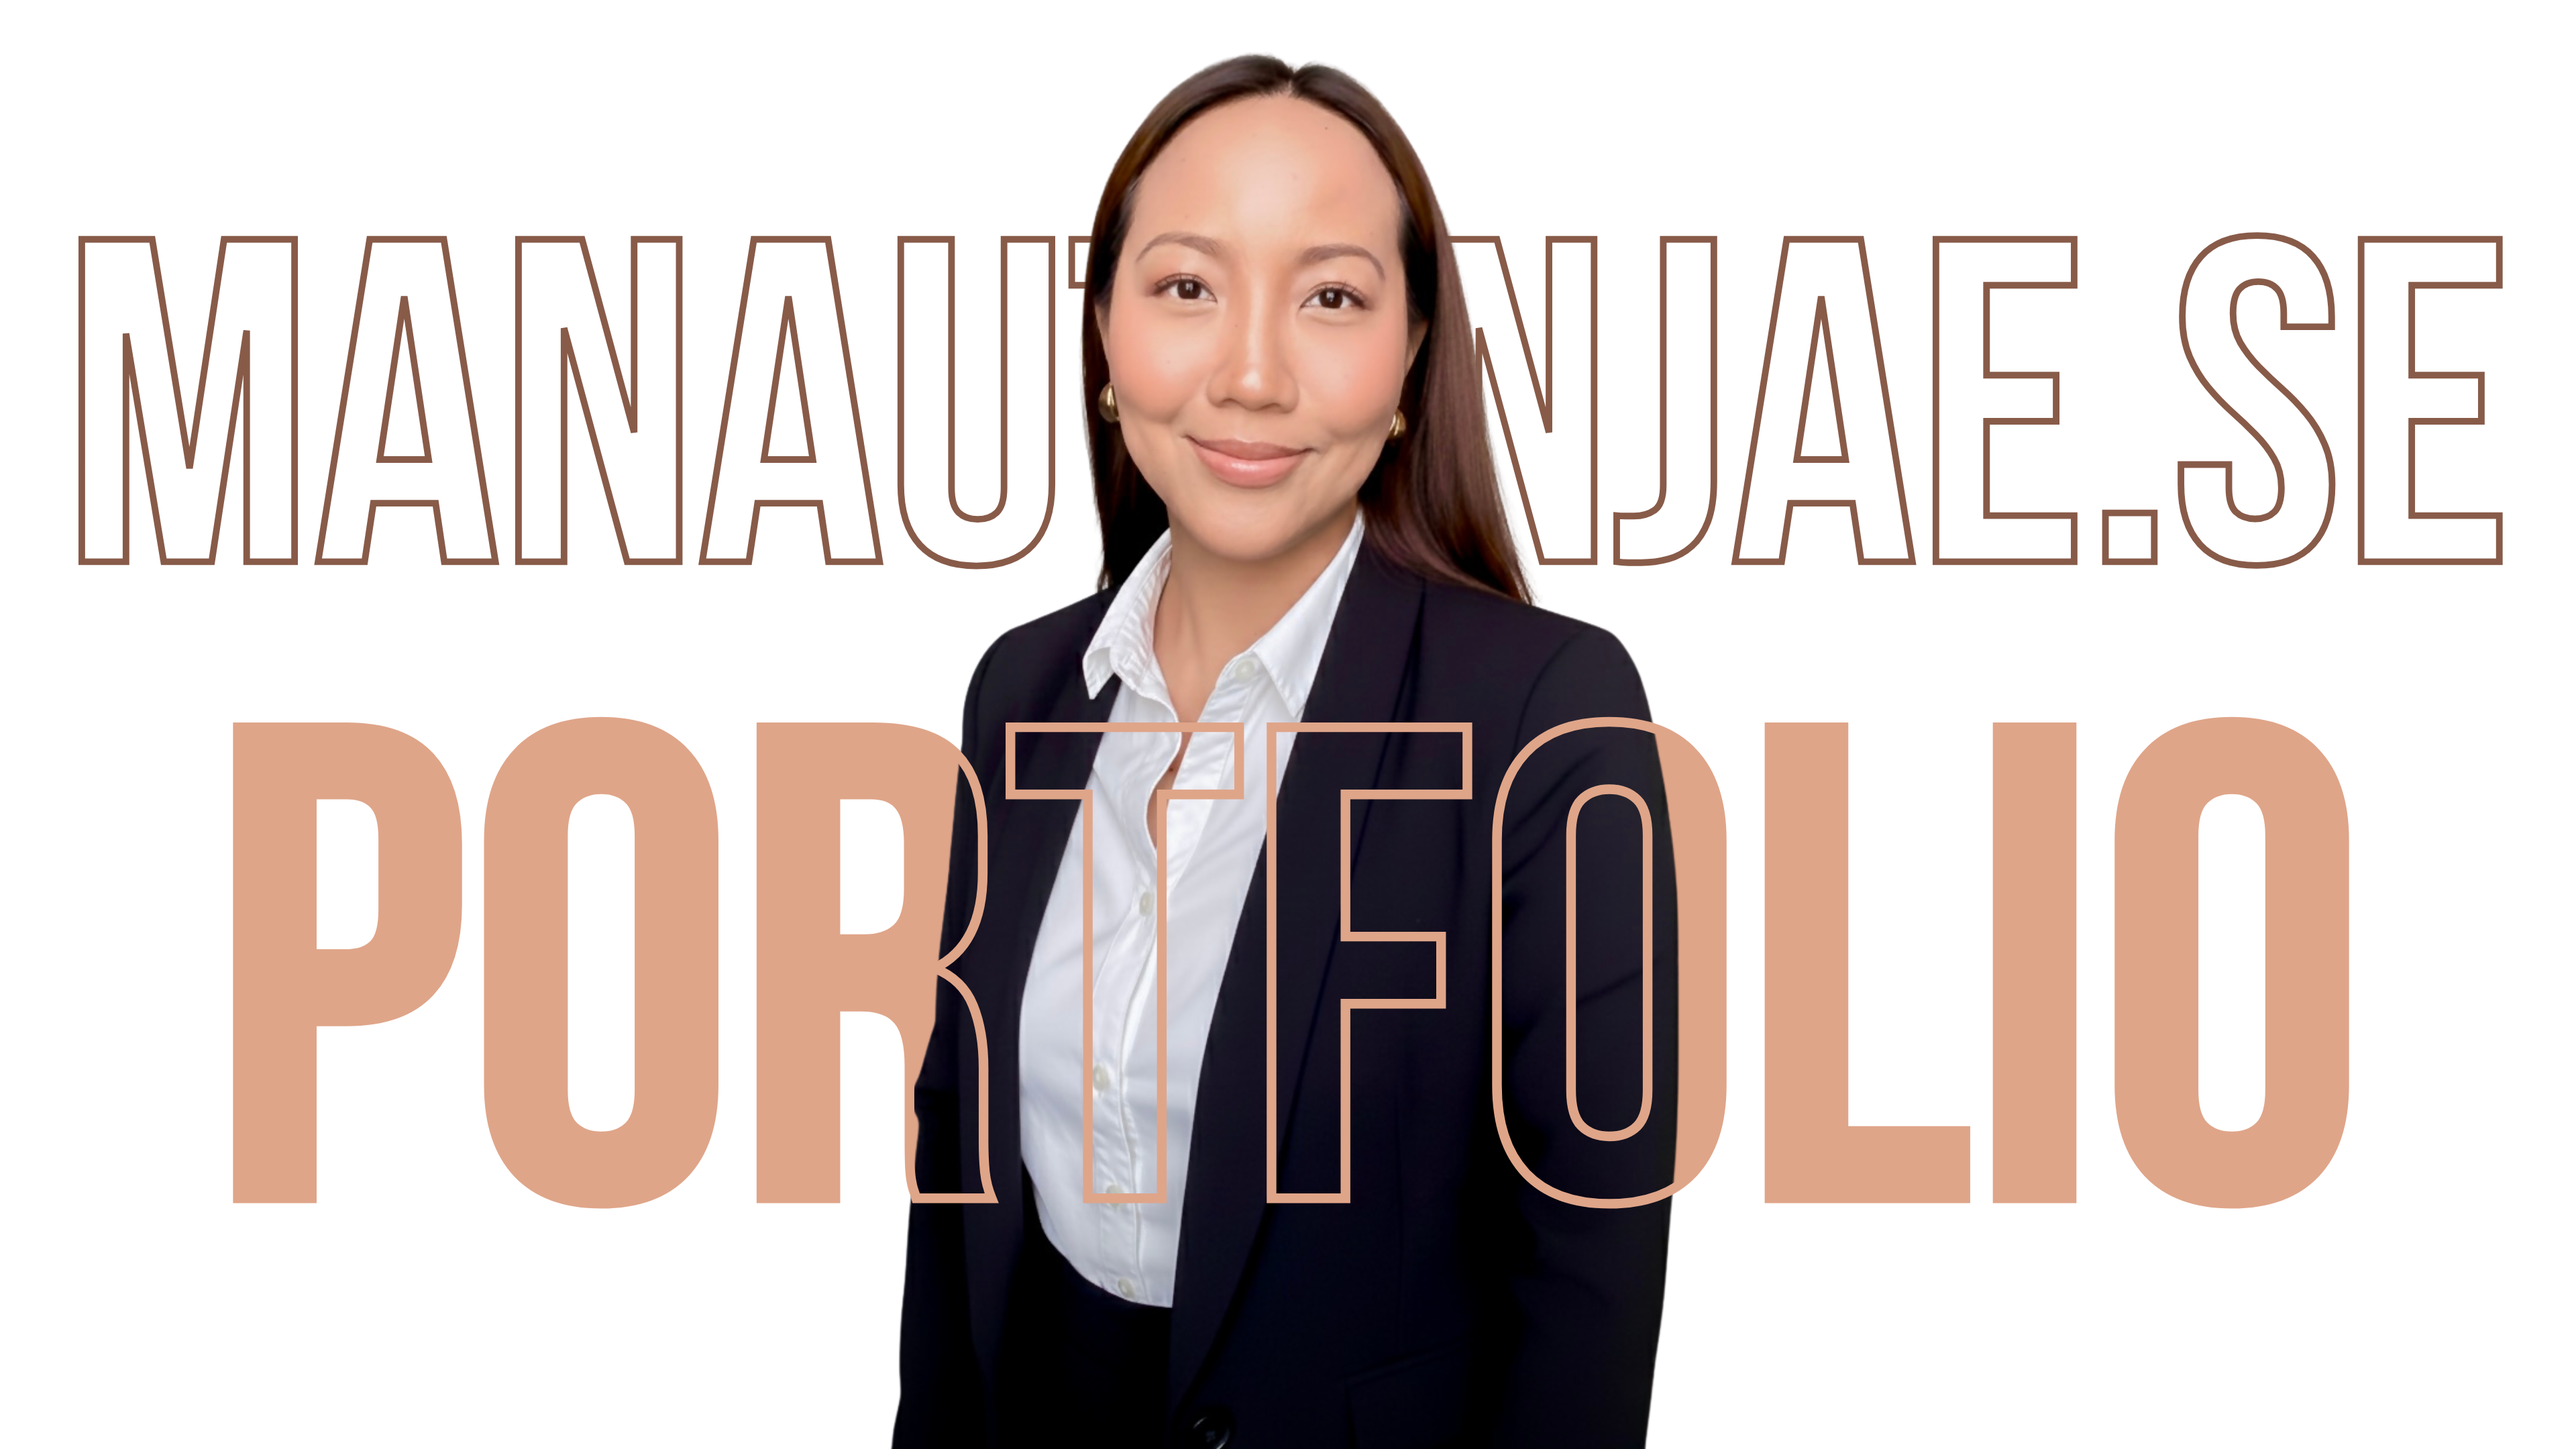
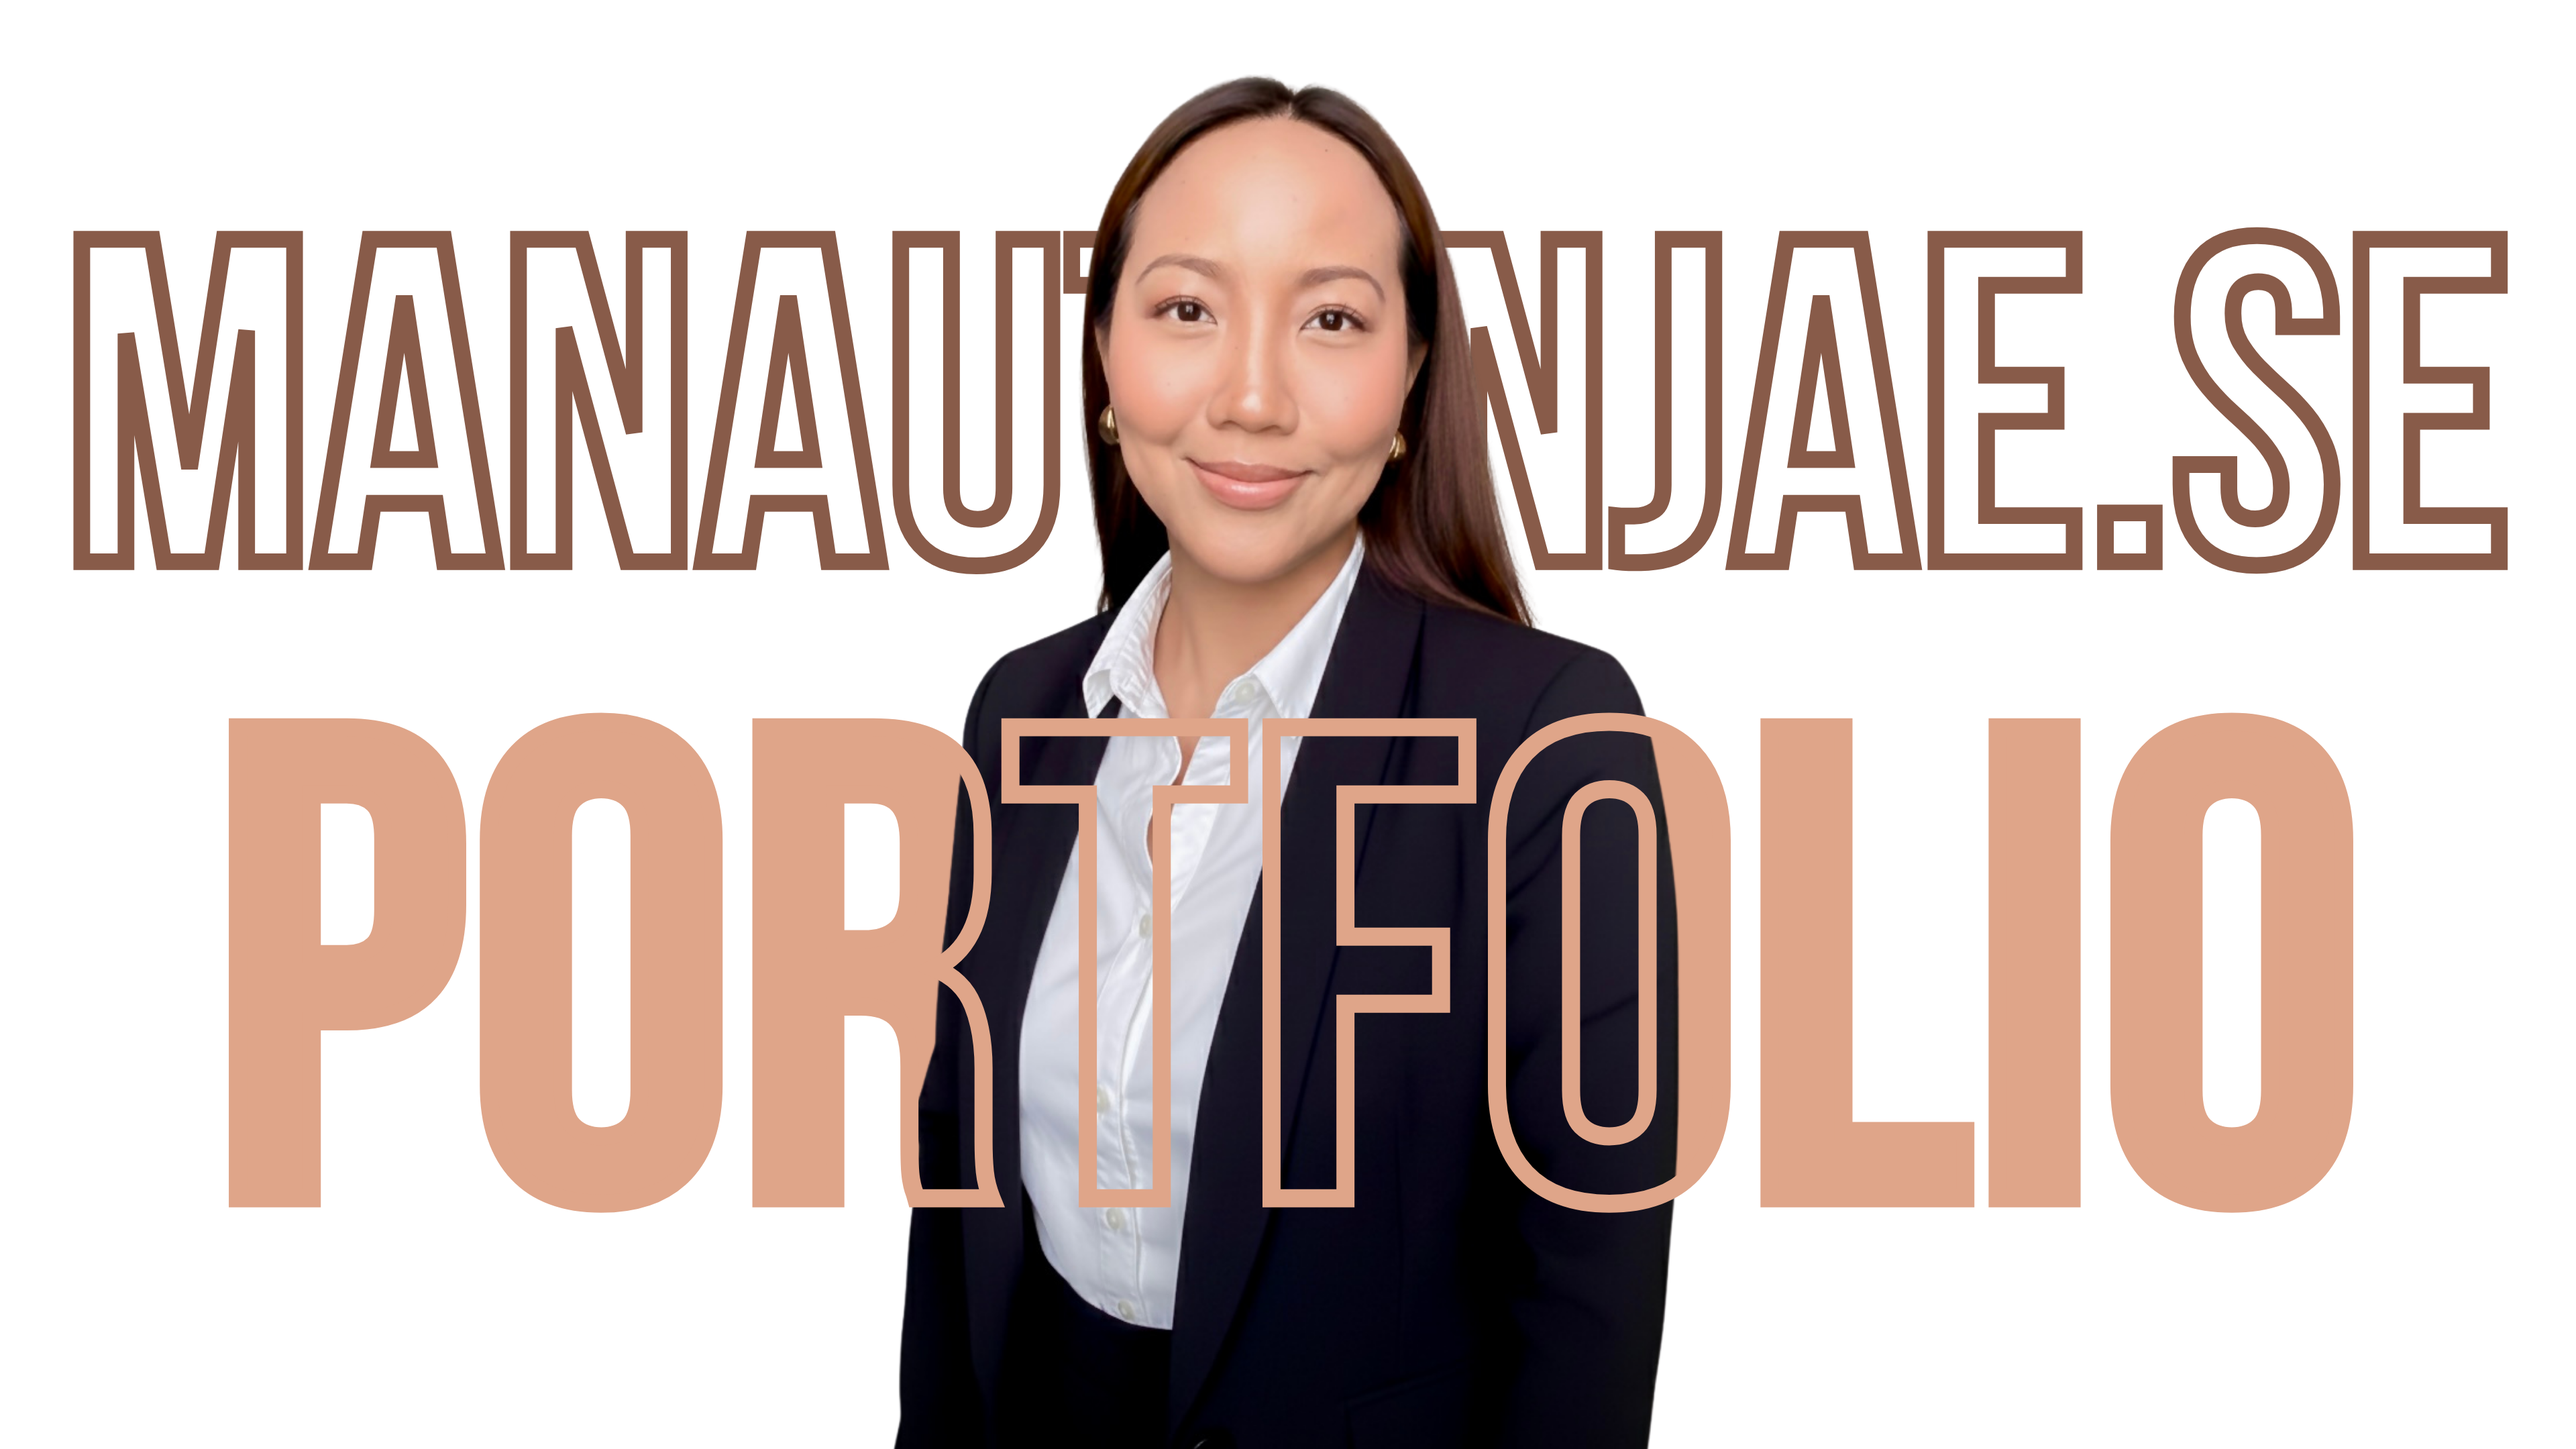
feat: update iPad version design for Hero section

diff --git a/src/components/Hero/Hero.module.css b/src/components/Hero/Hero.module.css
@@ -1,9 +1,10 @@
+/* ------------------------- Webb versionen ------------------------- */
 .heroContainer {
   width: 100%;
-  min-height: 100vh; /* Tar upp exakt hela skärmens höjd */
+  min-height: 100%;
   position: relative;
   overflow: hidden;
-  background-color: #000000;
+  background-color: #ffffff;
 }
 
 .coverWrapper {
@@ -12,7 +13,7 @@
   display: flex;
   justify-content: center;
   align-items: flex-end; /* Placerar utforska-knappen längst ner på skärmen */
-  padding-bottom: 60px;  /* Ger knappen lite luft från botten */
+  padding-bottom: 60px; /* Ger knappen lite luft från botten */
 }
 
 .coverImage {
@@ -20,7 +21,7 @@
   top: 0;
   left: 0;
   width: 100%;
-  height: 100%;
+  height: auto;
   object-fit: cover; /* Ser till att bilden fyller ut hela skärmen utan att bli utsträckt */
   object-position: center;
   z-index: 1;
@@ -50,3 +51,44 @@
   background: rgba(255, 255, 255, 0.15);
   box-shadow: 0 8px 30px rgba(255, 255, 255, 0.1);
 }
+
+/* ------------------------- Webb versionen ------------------------- */
+
+/* ------------------------- iPad versionen ------------------------- */
+@media (min-width: 1024px) {
+  .heroContainer {
+    /* Säkerställer att containern tar exakt hela skärmhöjden på iPad */
+    height: 40vh; 
+    min-height: 40vh;
+    margin-top: 4rem;
+    position: relative;
+  }
+
+  .coverWrapper {
+    /* Denna sköter flexboxen som centrerar innehållet och sätter knappen i botten */
+    height: 100%; 
+    display: flex;
+    justify-content: center;
+    align-items: flex-end;
+    padding-bottom: 50px; /* Justera om du vill ha knappen högre upp på iPad */
+  }
+
+  .coverImage {
+    /* Ändra från 'fixed' till 'absolute' så den stannar inom sin container */
+    position: absolute; 
+    top: 0;
+    left: 0;
+    width: 100%;
+    height: 100%; /* Låt bilden ta 100% av containern, inte 50% */
+    object-fit: cover;
+    object-position: center;
+    z-index: 1;
+  }
+
+  .scrollDownBtn {
+    /* Säkerställer att knappen hamnar ovanpå bilden */
+    z-index: 2; 
+  }
+}
+
+/* ------------------------- iPad versionen ------------------------- */
